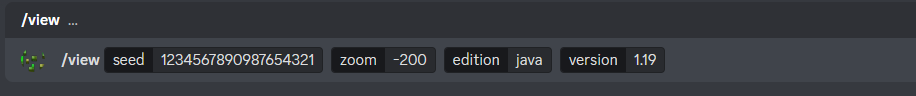
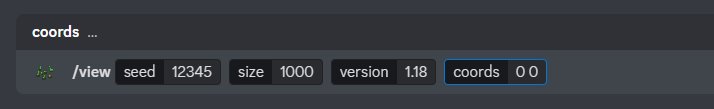
Rewrote the bot to use a local tool instead of scraping.

Changed region(s): [[0.0, 0.4688, 0.7703, 0.7812], [0.0, 0.1562, 0.1541, 0.3438]]

diff --git a/release/1.0/bot.py b/release/1.0/bot.py
@@ -1,0 +1,66 @@
+import discord
+from discord.ext import commands
+from typing import Literal, Optional
+from discord.ext.commands import Greedy, Context
+import os
+
+class Bot(commands.Bot):
+    def __init__(self):
+        intents = discord.Intents.default()
+        intents.message_content = True
+
+        super().__init__(command_prefix=commands.when_mentioned_or('$'), intents=intents)
+
+    async def on_ready(self):
+        print(f'Logged in as {self.user} (ID: {self.user.id})')
+        print('------')
+
+bot = Bot()
+
+# Tree syncer
+@bot.command()
+@commands.guild_only()
+@commands.is_owner()
+async def sync(
+  ctx: Context, guilds: Greedy[discord.Object], spec: Optional[Literal["~", "*", "^"]] = None) -> None:
+    if not guilds:
+        if spec == "~":
+            synced = await ctx.bot.tree.sync(guild=ctx.guild)
+        elif spec == "*":
+            ctx.bot.tree.copy_global_to(guild=ctx.guild)
+            synced = await ctx.bot.tree.sync(guild=ctx.guild)
+        elif spec == "^":
+            ctx.bot.tree.clear_commands(guild=ctx.guild)
+            await ctx.bot.tree.sync(guild=ctx.guild)
+            synced = []
+        else:
+            synced = await ctx.bot.tree.sync()
+
+        await ctx.send(
+            f"Synced {len(synced)} commands {'globally' if spec is None else 'to the current guild.'}"
+        )
+        return
+
+    ret = 0
+    for guild in guilds:
+        try:
+            await ctx.bot.tree.sync(guild=guild)
+        except discord.HTTPException:
+            pass
+        else:
+            ret += 1
+
+    await ctx.send(f"Synced the tree to {ret}/{len(guilds)}.")
+
+@bot.tree.command()
+async def view(interaction: discord.Interaction, seed: str, size: int, version: str, coords: str):
+    await interaction.response.send_message("Wait a bit while I render it!")
+    os.system(f"java -jar \"PATH\TO\MINEMAP\JAR\" --screenshot --seed {seed} --version {version} --pos {coords} --size {size}")
+    file = discord.File(f"{seed}.png")
+    await interaction.followup.send(f"Here's the render of the seed {seed}", file=file)
+
+@bot.tree.command()
+async def faq(interaction: discord.Interaction):
+    await interaction.response.send_message("Thank you for using my bot! Map rendering tech provided by https://github.com/hube12/Minemap. Discord bot implementation made by Duhon.\nHelp server: https://discord.gg/ZBpgKVxVTR \nHow it works: It uses MineMap to render a picture and then send it on Discord. As simple as it gets. \nHow to use it: Use a slash command '/view'. The inputs should be a number seed for 'seed', the size of the render in 'size' (700+ recommended), 'version' in the form 'X.XX', and 2 whole numbers 'X Z' in 'coords'.")
+
+bot.run('your_token')
